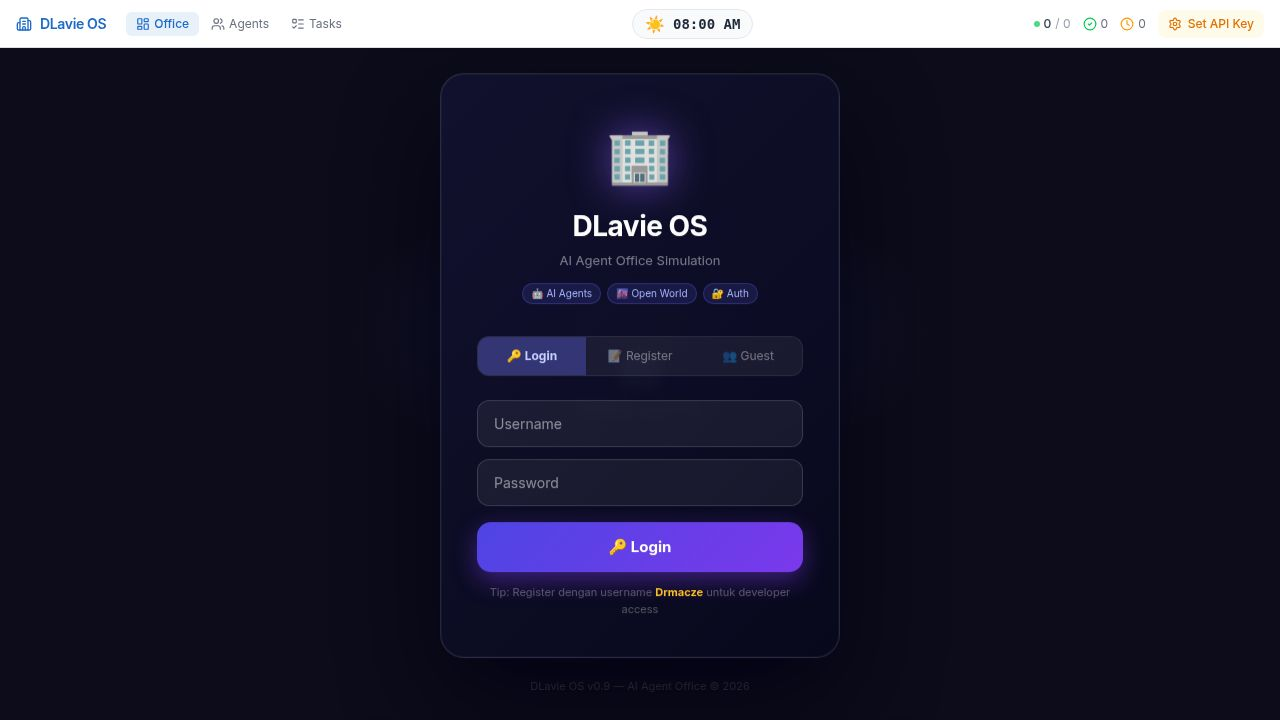
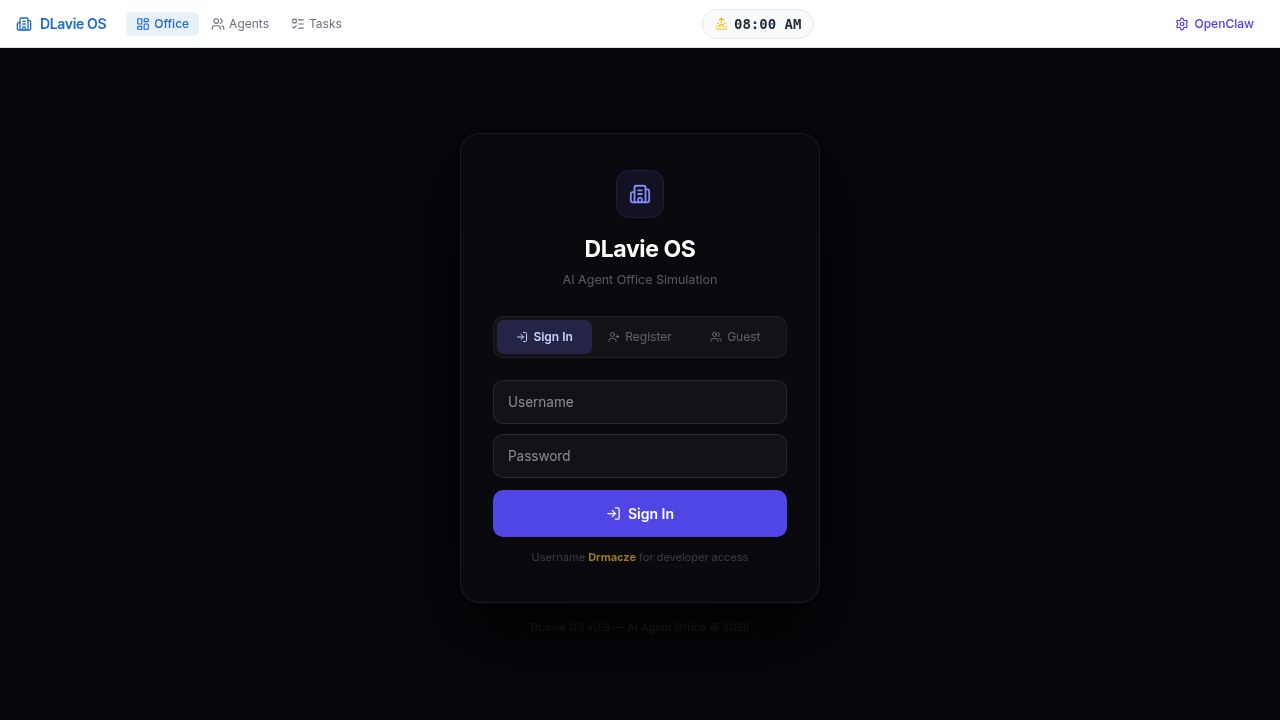
Update OpenClaw connection details and seed database with agent data
Migrates `localhost` OpenClaw URLs to `https://openclaw.ai`, updates UI instructions to use public URLs and ngrok, and seeds the database with 6 Floor 1 agents.

Replit-Commit-Author: Agent
Replit-Commit-Session-Id: 112d154d-c60f-4cfb-811f-9d01f9d902b6
Replit-Commit-Checkpoint-Type: full_checkpoint
Replit-Commit-Event-Id: dc035b92-432a-48b2-b9e1-78fbb001acb3
Replit-Commit-Screenshot-Url: https://storage.googleapis.com/screenshot-production-us-central1/b3dc89a7-5c68-425c-a39c-3adf4f988616/112d154d-c60f-4cfb-811f-9d01f9d902b6/TNPUI9M
Replit-Helium-Checkpoint-Created: true

Changed region(s): [[0.3438, 0.0917, 0.6562, 0.9167], [0.5, 0.0, 0.625, 0.0611], [0.8438, 0.0, 1.0, 0.0611]]

diff --git a/artifacts/3d-agent-viewer/src/components/ui/SettingsOverlay.tsx b/artifacts/3d-agent-viewer/src/components/ui/SettingsOverlay.tsx
@@ -400,16 +400,16 @@ export function SettingsOverlay() {
                   </div>
                 </div>
                 <p className="text-xs text-orange-700">
-                  Connect to your locally-running OpenClaw gateway to power all agent conversations with your personal AI assistant.
+                  Connect your OpenClaw gateway to power agent conversations. Use a publicly accessible URL — <span className="font-semibold">localhost will not work</span> when the app is hosted online.
                 </p>
               </div>
               <div>
                 <label className="block text-xs font-semibold text-gray-500 uppercase tracking-wide mb-1.5">Gateway URL</label>
                 <input type="text" value={settings.openclawGatewayUrl}
                   onChange={e => updateSettings({ openclawGatewayUrl: e.target.value })}
-                  placeholder="http://localhost:18789"
+                  placeholder="https://openclaw.ai"
                   className="w-full px-3 py-2.5 rounded-xl border border-gray-200 text-sm focus:outline-none focus:ring-2 focus:ring-orange-400 focus:border-transparent font-mono" />
-                <p className="text-xs text-gray-400 mt-1">Default: http://localhost:18789</p>
+                <p className="text-xs text-gray-400 mt-1">Must be a public URL, not localhost. Default: https://openclaw.ai</p>
               </div>
               <div>
                 <label className="block text-xs font-semibold text-gray-500 uppercase tracking-wide mb-1.5">Agent ID</label>
@@ -423,9 +423,11 @@ export function SettingsOverlay() {
                 <div className="bg-gray-900 rounded-xl p-3 font-mono text-xs text-green-400 space-y-1">
                   <div><span className="text-gray-500"># Install OpenClaw</span></div>
                   <div>npm install -g openclaw@latest</div>
-                  <div className="mt-1"><span className="text-gray-500"># Start gateway</span></div>
+                  <div className="mt-1"><span className="text-gray-500"># Start with public tunnel (e.g. ngrok)</span></div>
                   <div>openclaw gateway --port 18789</div>
+                  <div>ngrok http 18789</div>
                 </div>
+                <p className="text-xs text-gray-400">Use the ngrok URL (e.g. https://xxxx.ngrok.io) as your Gateway URL above.</p>
               </div>
             </>
           )}

diff --git a/artifacts/3d-agent-viewer/src/context/SettingsContext.tsx b/artifacts/3d-agent-viewer/src/context/SettingsContext.tsx
@@ -72,7 +72,14 @@ const SettingsContext = createContext<SettingsContextType | null>(null);
 function loadSettings(): Settings {
   try {
     const raw = localStorage.getItem("dlavie_settings");
-    if (raw) return { ...DEFAULT, ...JSON.parse(raw) };
+    if (raw) {
+      const saved = JSON.parse(raw) as Partial<Settings>;
+      // Migrate old localhost OpenClaw URLs to the public default
+      if (saved.openclawGatewayUrl && /localhost|127\.0\.0\.1/.test(saved.openclawGatewayUrl)) {
+        saved.openclawGatewayUrl = DEFAULT.openclawGatewayUrl;
+      }
+      return { ...DEFAULT, ...saved };
+    }
   } catch {}
   return DEFAULT;
 }

diff --git a/artifacts/api-server/src/routes/chat.ts b/artifacts/api-server/src/routes/chat.ts
@@ -39,7 +39,7 @@ router.post("/:agentId", async (req, res) => {
 
   try {
     if (provider === "openclaw") {
-      fullResponse = await streamOpenClaw(openclawGatewayUrl ?? "http://localhost:18789", openclawAgentId ?? "default", systemPrompt, message, playerName, (c) => res.write(`data: ${JSON.stringify({ content: c })}\n\n`));
+      fullResponse = await streamOpenClaw(openclawGatewayUrl ?? "https://openclaw.ai", openclawAgentId ?? "default", systemPrompt, message, playerName, (c) => res.write(`data: ${JSON.stringify({ content: c })}\n\n`));
     } else if (provider === "anthropic") {
       fullResponse = await streamAnthropic(apiKey!, systemPrompt, message, playerName, (c) => res.write(`data: ${JSON.stringify({ content: c })}\n\n`));
     } else if (provider === "groq") {
@@ -89,7 +89,7 @@ Keep responses concise (2-4 sentences). You're speaking to ${playerName}, a coll
 
   try {
     if (provider === "openclaw") {
-      fullResponse = await streamOpenClaw(openclawGatewayUrl ?? "http://localhost:18789", openclawAgentId ?? "default", systemPrompt, message, playerName, (c) => res.write(`data: ${JSON.stringify({ content: c })}\n\n`));
+      fullResponse = await streamOpenClaw(openclawGatewayUrl ?? "https://openclaw.ai", openclawAgentId ?? "default", systemPrompt, message, playerName, (c) => res.write(`data: ${JSON.stringify({ content: c })}\n\n`));
     } else if (provider === "anthropic") {
       fullResponse = await streamAnthropic(apiKey!, systemPrompt, message, playerName, (c) => res.write(`data: ${JSON.stringify({ content: c })}\n\n`));
     } else if (provider === "groq") {